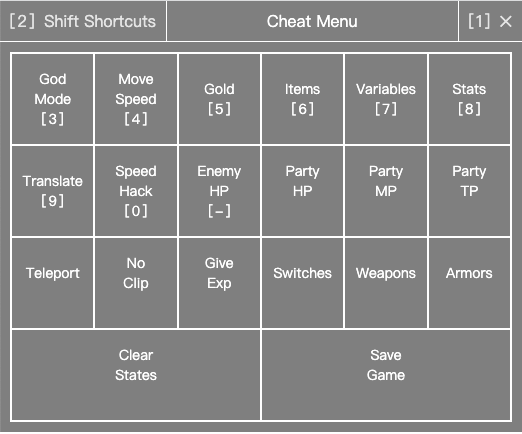
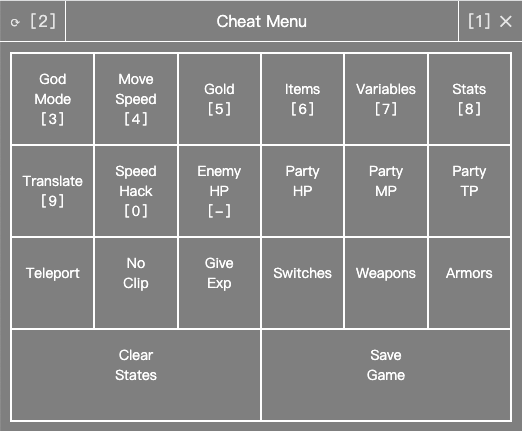
fix: God Mode interval stuff

diff --git a/src/module/GodMode.ts b/src/module/GodMode.ts
@@ -3,6 +3,7 @@ import ActorSelector from '../component/mv/ActorSelector'
 import MV from '../core/mv'
 import Switch from '../component/Switch'
 import {br, createText} from '../core/dom'
+import setGuaranteedInterval, {clearGuaranteedInterval} from '../util/guaranteed-interval'
 
 export default class GodMode extends Renderer {
 
@@ -11,6 +12,8 @@ export default class GodMode extends Renderer {
   }
 
   static MyName = 'God Mode'
+
+  private static readonly GuaranteedIntervalKey = 'Cheat:GodMode:GuaranteedIntervalKey'
 
   private readonly actor: ActorSelector
   private readonly switcher: Switch
@@ -27,13 +30,13 @@ export default class GodMode extends Renderer {
     MV.injectGod(actor)
 
     if (actor._godMode) {
-      actor._godModeIntervalId = setInterval(() => {
+      actor._godModeIntervalId = setGuaranteedInterval(GodMode.GuaranteedIntervalKey, () => {
         actor.gainHp(actor.mhp)
         actor.gainMp(actor.mmp)
         actor.gainTp(actor.maxTp())
-      }, 100) as unknown as number
+      }, 100)
     } else {
-      clearInterval(actor._godModeIntervalId)
+      clearGuaranteedInterval(GodMode.GuaranteedIntervalKey)
     }
 
     SoundManager.playSystemSound(actor._godMode ? 1 : 0)
@@ -42,6 +45,7 @@ export default class GodMode extends Renderer {
   private readonly _onGameStart = () => {
     if (this.switcher) {
       this.switcher.value = !!this.current?._godMode
+      this._whoIsYourDaddy(this.switcher.value)
     }
   }
 
@@ -55,6 +59,7 @@ export default class GodMode extends Renderer {
         }
       },
     })
+
     this.switcher = new Switch({
       label: 'Current Status',
       default: !!this.current?._godMode,
@@ -78,6 +83,8 @@ export default class GodMode extends Renderer {
     this.actor.dispose()
     this.switcher.dispose()
 
+    clearGuaranteedInterval(GodMode.GuaranteedIntervalKey)
+
     MV.singleton().off('loadGame', this._onGameStart)
     MV.singleton().off('saveGame', this._onGameStart)
   }
@@ -86,7 +93,7 @@ export default class GodMode extends Renderer {
     const container = document.createElement('div')
 
     container.append(
-      createText('This function may cause "Memory Leak", restart game to solve this problem for now.', 'warning'),
+      createText('If game becomes laggy after enabling this function, try to turn on and turn off god mode to clear something wrong.', 'warning'),
       br(),
     )
 

diff --git a/src/util/guaranteed-interval.ts b/src/util/guaranteed-interval.ts
@@ -1,0 +1,22 @@
+
+export default function setGuaranteedInterval(key: string, callback: () => void, ms?: number): number {
+  const gi = window.__guaranteed_intervals = window.__guaranteed_intervals || {}
+
+  const id = setInterval(callback, ms) as unknown as number
+
+  const ids = gi[key]
+  if (ids && ids instanceof Array) {
+    ids.push(id)
+  } else {
+    gi[key] = [id]
+  }
+
+  return id
+}
+
+export function clearGuaranteedInterval(key: string) {
+  const ids = window.__guaranteed_intervals?.[key]
+  if (ids && ids instanceof Array) {
+    ids.forEach(id => clearInterval(id))
+  }
+}

diff --git a/src/module/SaveGame.ts b/src/module/SaveGame.ts
@@ -65,7 +65,7 @@ export default class SaveGame extends Renderer<HTMLDivElement> {
 
     container.append(
       createText('Used for emergency game saving, and emergency ONLY.'),
-      createText('Using ID which is out of game-predefined-range may cause an unexpected ERROR.', 'warning'),
+      createText('Using ID which is out of game-predefined-saving-id-range may cause unexpected ERRORS.', 'warning'),
       this.saveIdSelector.render(),
       this.save.render(),
     )

diff --git a/src/App.ts b/src/App.ts
@@ -259,7 +259,7 @@ export default class App extends Renderer<HTMLDivElement> {
 
     const navShift = this.navShiftButton
     navShift.classList.add('nav-button')
-    navShift.append(createKeyMapLabel(App.KeyMap.back, '⟳', 'Shift Shortcuts'))
+    navShift.append(createKeyMapLabel(App.KeyMap.back, '⟳', 'Shift Shortcuts', { namePosition: 'left' }))
     navShift.addEventListener('click', this._shiftShortcuts)
     nav.append(navShift)
 

diff --git a/src/mv.d.ts b/src/mv.d.ts
@@ -10,6 +10,7 @@ declare global {
     __hookedMV: MV
     __cheat_speed?: number
     __cheat_speedLocked?: boolean
+    __guaranteed_intervals?: Record<string, number[]>
   }
 
   const nw: any

diff --git a/README.md b/README.md
@@ -12,7 +12,8 @@
 ![PartyHP](screenshots/party-hp.png)  
 
 ### Features
-- Keyboard and Mouse both supported 
+- Keyboard and Mouse both supported
+- Hovering icon button to display description if description is available
 - Modules
   - God Mode
   - Move Speed
